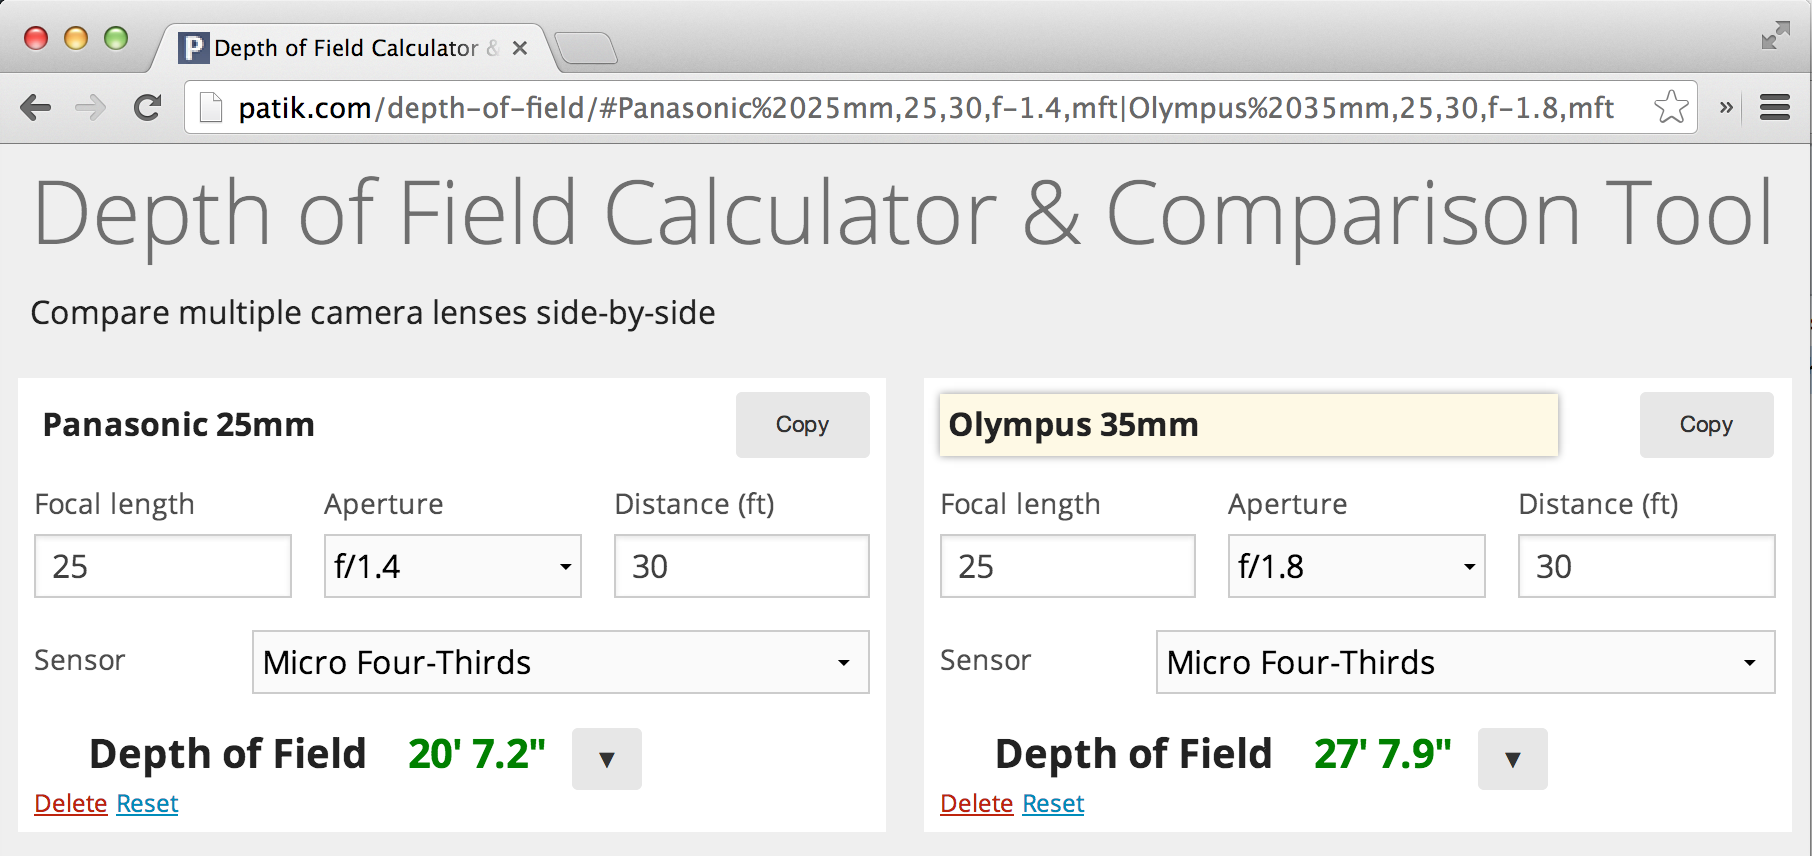
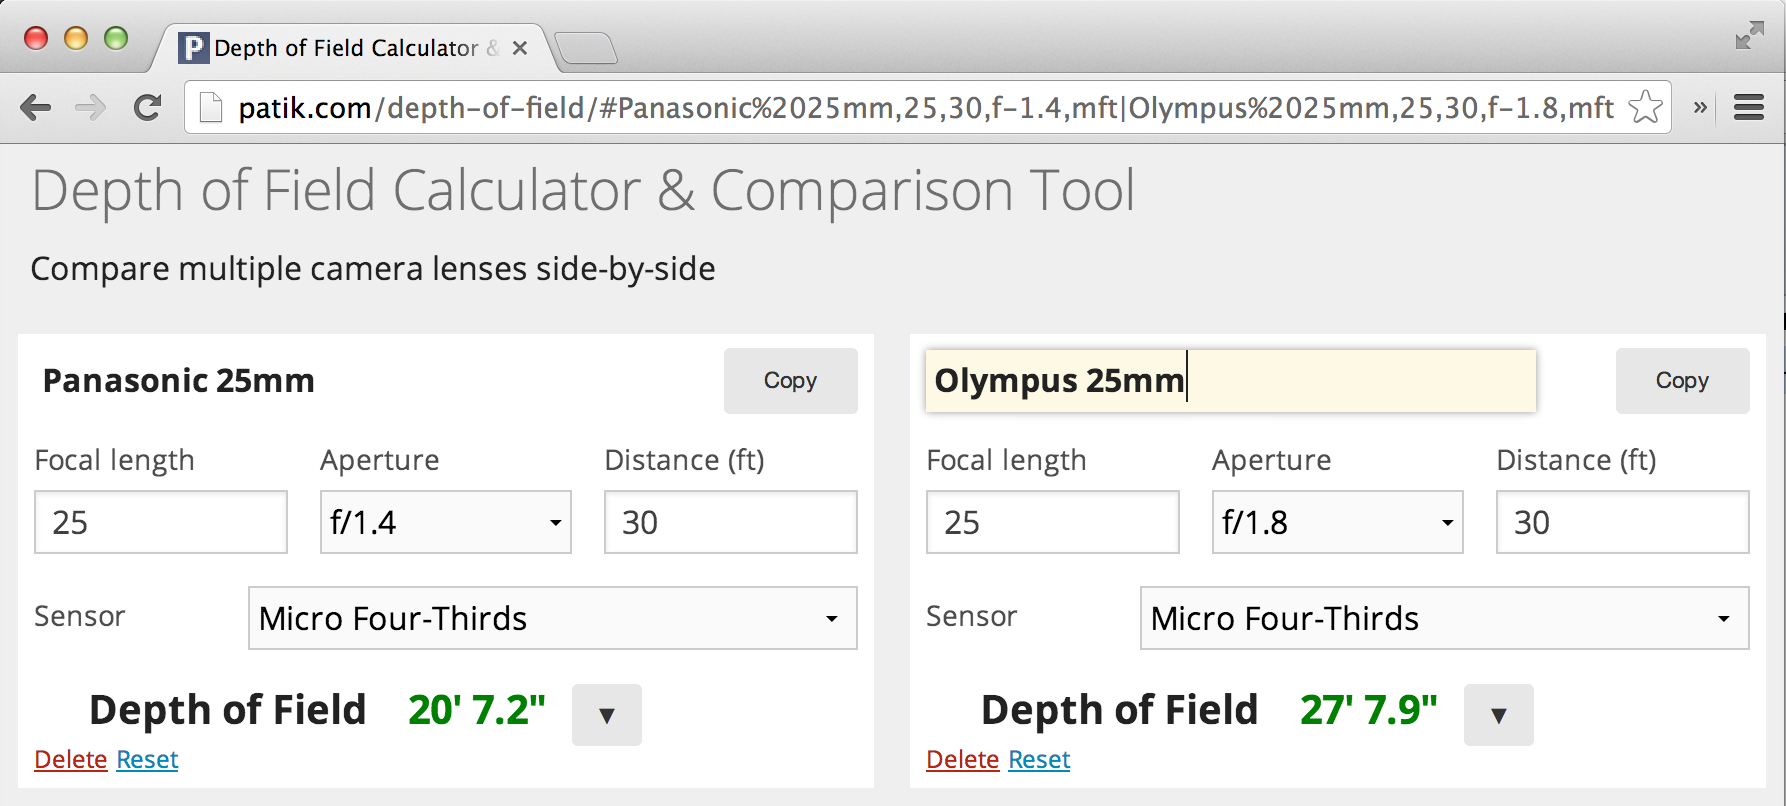
Header font size, screenshot typo fix

diff --git a/scss/dfc/_global.scss b/scss/dfc/_global.scss
@@ -17,6 +17,12 @@ html, body {
     }
 }
 
+// @media only screen and (min-width: 40.063em) {
+    h1 {
+        font-size: 1.75rem;
+    }
+// }
+
 p a {
     text-decoration: underline;
 
